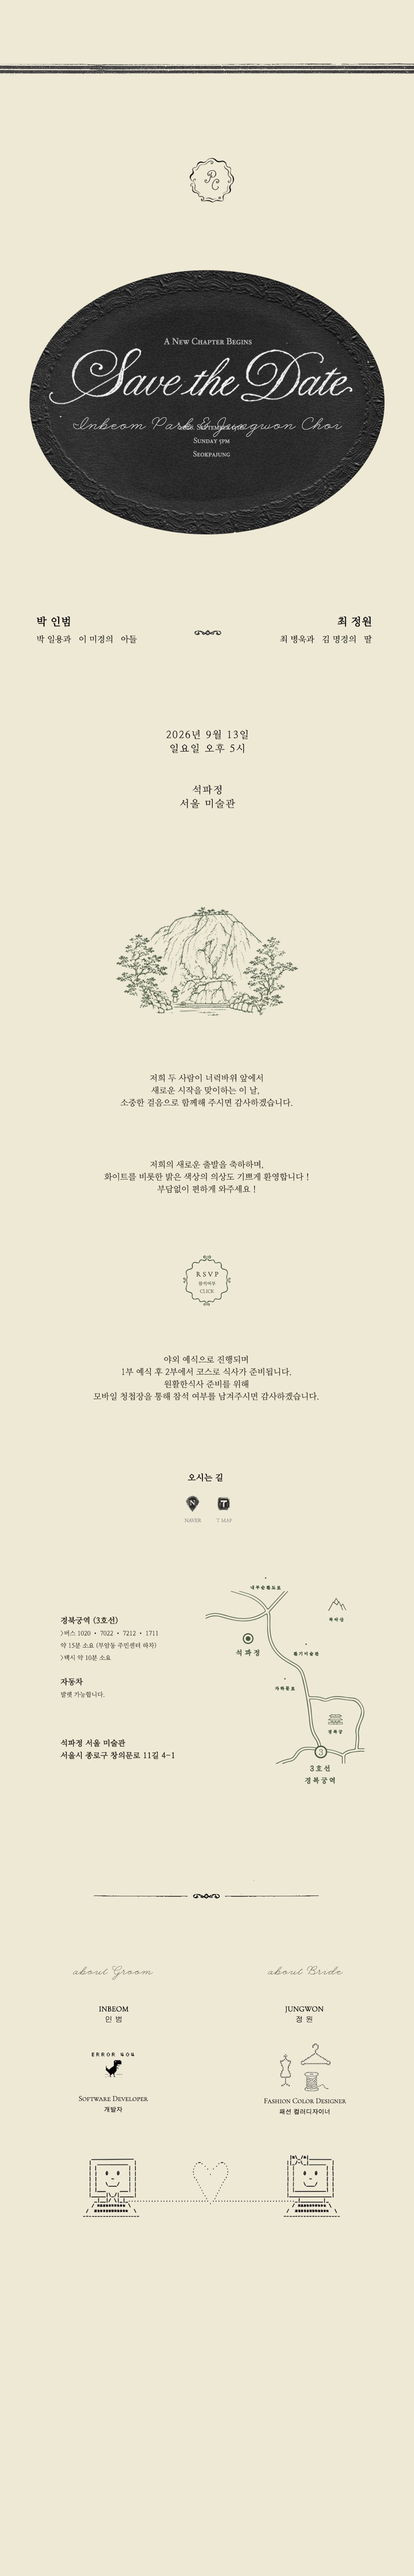
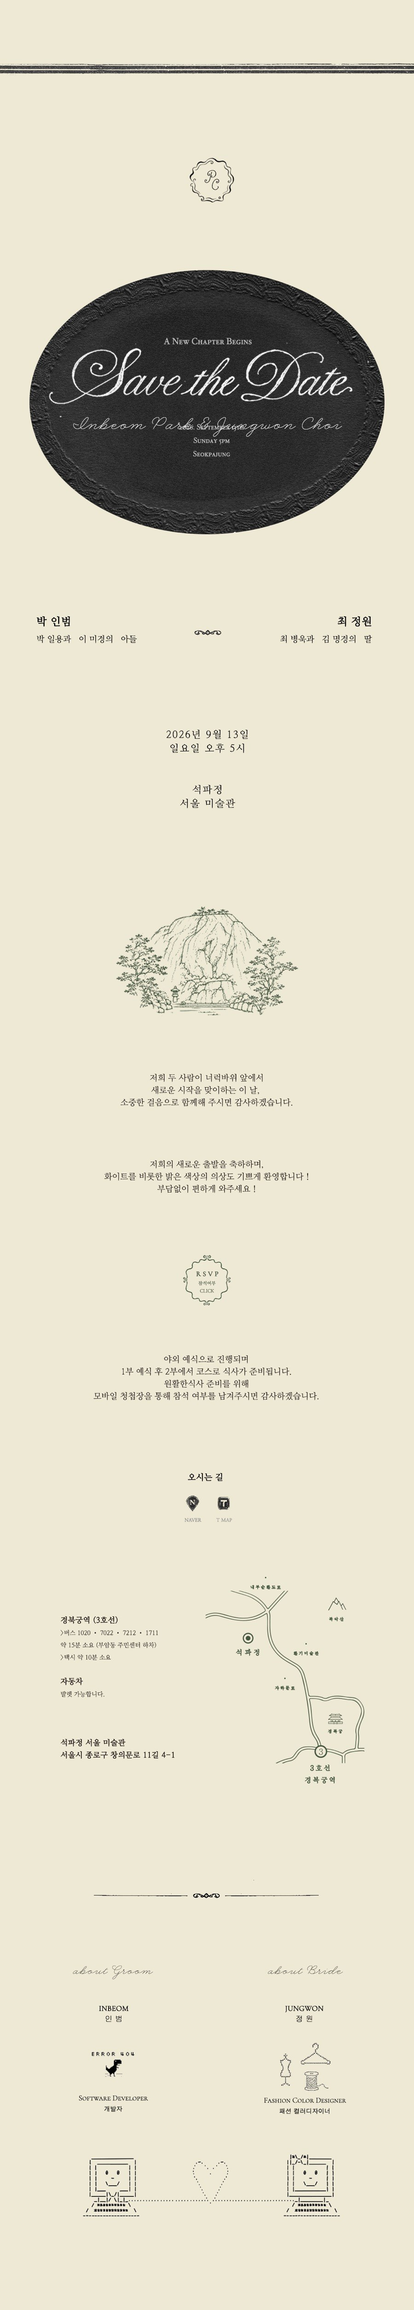
fix design

diff --git a/src/Intro.jsx b/src/Intro.jsx
@@ -1,12 +1,27 @@
-import { useRef, useState } from 'react'
+import { useEffect, useRef, useState } from 'react'
 import introVideo from './assets/intro.mp4'
 
-const FADE_DURATION_MS = 600
+const FADE_DURATION_MS = 500
 
 export default function Intro({ onDone }) {
   const videoRef = useRef(null)
-  const [ready, setReady]   = useState(false)
+  const [canPlay, setCanPlay] = useState(false)
+  const [ready, setReady] = useState(false)
   const [fading, setFading] = useState(false)
+
+  useEffect(() => {
+    const link = document.createElement('link')
+    link.rel = 'preload'
+    link.as = 'video'
+    link.href = introVideo
+    document.head.appendChild(link)
+    return () => link.remove()
+  }, [])
+
+  function handleCanPlay() {
+    setCanPlay(true)
+    videoRef.current?.play().catch(() => {})
+  }
 
   function handleEnded() {
     setReady(true)
@@ -18,11 +33,14 @@ export default function Intro({ onDone }) {
     setTimeout(() => onDone(), FADE_DURATION_MS)
   }
 
+  const visible = canPlay && !fading
+
   return (
     <div
       className="fixed inset-0 z-50 flex items-center justify-center bg-black"
       style={{
-        opacity: fading ? 0 : 1,
+        opacity: visible ? 1 : 0,
+        pointerEvents: visible ? 'auto' : 'none',
         transition: `opacity ${FADE_DURATION_MS}ms ease`,
         cursor: ready ? 'pointer' : 'default',
       }}
@@ -32,15 +50,15 @@ export default function Intro({ onDone }) {
         ref={videoRef}
         src={introVideo}
         className="h-full w-full max-w-sm object-cover"
-        autoPlay
         muted
         playsInline
+        preload="auto"
+        onCanPlay={handleCanPlay}
         onEnded={handleEnded}
       />
 
-      {/* 재생 끝난 뒤 탭 유도 */}
       <div
-        className="absolute bottom-12 left-1/2 -translate-x-1/2 text-white/60 text-xs tracking-[0.3em] uppercase transition-opacity duration-700"
+        className="absolute bottom-12 left-1/2 -translate-x-1/2 text-xs tracking-[0.3em] text-white/60 uppercase transition-opacity duration-500"
         style={{ opacity: ready ? 1 : 0 }}
       >
         tap to enter

diff --git a/src/App.jsx b/src/App.jsx
@@ -54,8 +54,8 @@ function openMapApp(map) {
 
 // 오시는 길 NAVER / T MAP 아이콘 위치 (이미지 대비 %)
 const MAP_AREAS = {
-  naver: { top: '58%', left: '44%', width: '5%', height: '1%' },
-  tmap: { top: '58%', left: '52%', width: '5%', height: '1%' },
+  naver: { top: '64.5%', left: '44%', width: '5%', height: '1%' },
+  tmap: { top: '64.5%', left: '52%', width: '5%', height: '1%' },
 }
 
 function MapLink({ map, label, area }) {
@@ -156,8 +156,7 @@ function App() {
         <img
           src={`${import.meta.env.BASE_URL}invite.jpeg`}
           alt="청첩장"
-          className="fade-in block w-full"
-          style={{ animationDelay: '0.2s' }}
+          className="block w-full"
         />
         <MapLink map="naver" label="네이버 지도 앱에서 석파정 보기" area={MAP_AREAS.naver} />
         <MapLink map="tmap" label="티맵 앱에서 석파정 길찾기" area={MAP_AREAS.tmap} />

diff --git a/src/main.jsx b/src/main.jsx
@@ -7,9 +7,12 @@ import Intro from './Intro.jsx'
 function Root() {
   const [introDone, setIntroDone] = useState(false)
 
-  return introDone
-    ? <App />
-    : <Intro onDone={() => setIntroDone(true)} />
+  return (
+    <>
+      <App />
+      {!introDone && <Intro onDone={() => setIntroDone(true)} />}
+    </>
+  )
 }
 
 createRoot(document.getElementById('root')).render(

diff --git a/index.html b/index.html
@@ -12,6 +12,7 @@
     href="https://fonts.googleapis.com/css2?family=Cormorant+Garamond:ital,wght@0,400;0,600;1,400;1,600&family=Great+Vibes&family=Noto+Serif+KR:wght@300;400;600&display=block"
     rel="stylesheet" />
   <title>Inbeom - Jungwon Wedding Invitation</title>
+  <link rel="preload" as="image" href="/wedding/invite.jpeg" />
 </head>
 
 <body>
